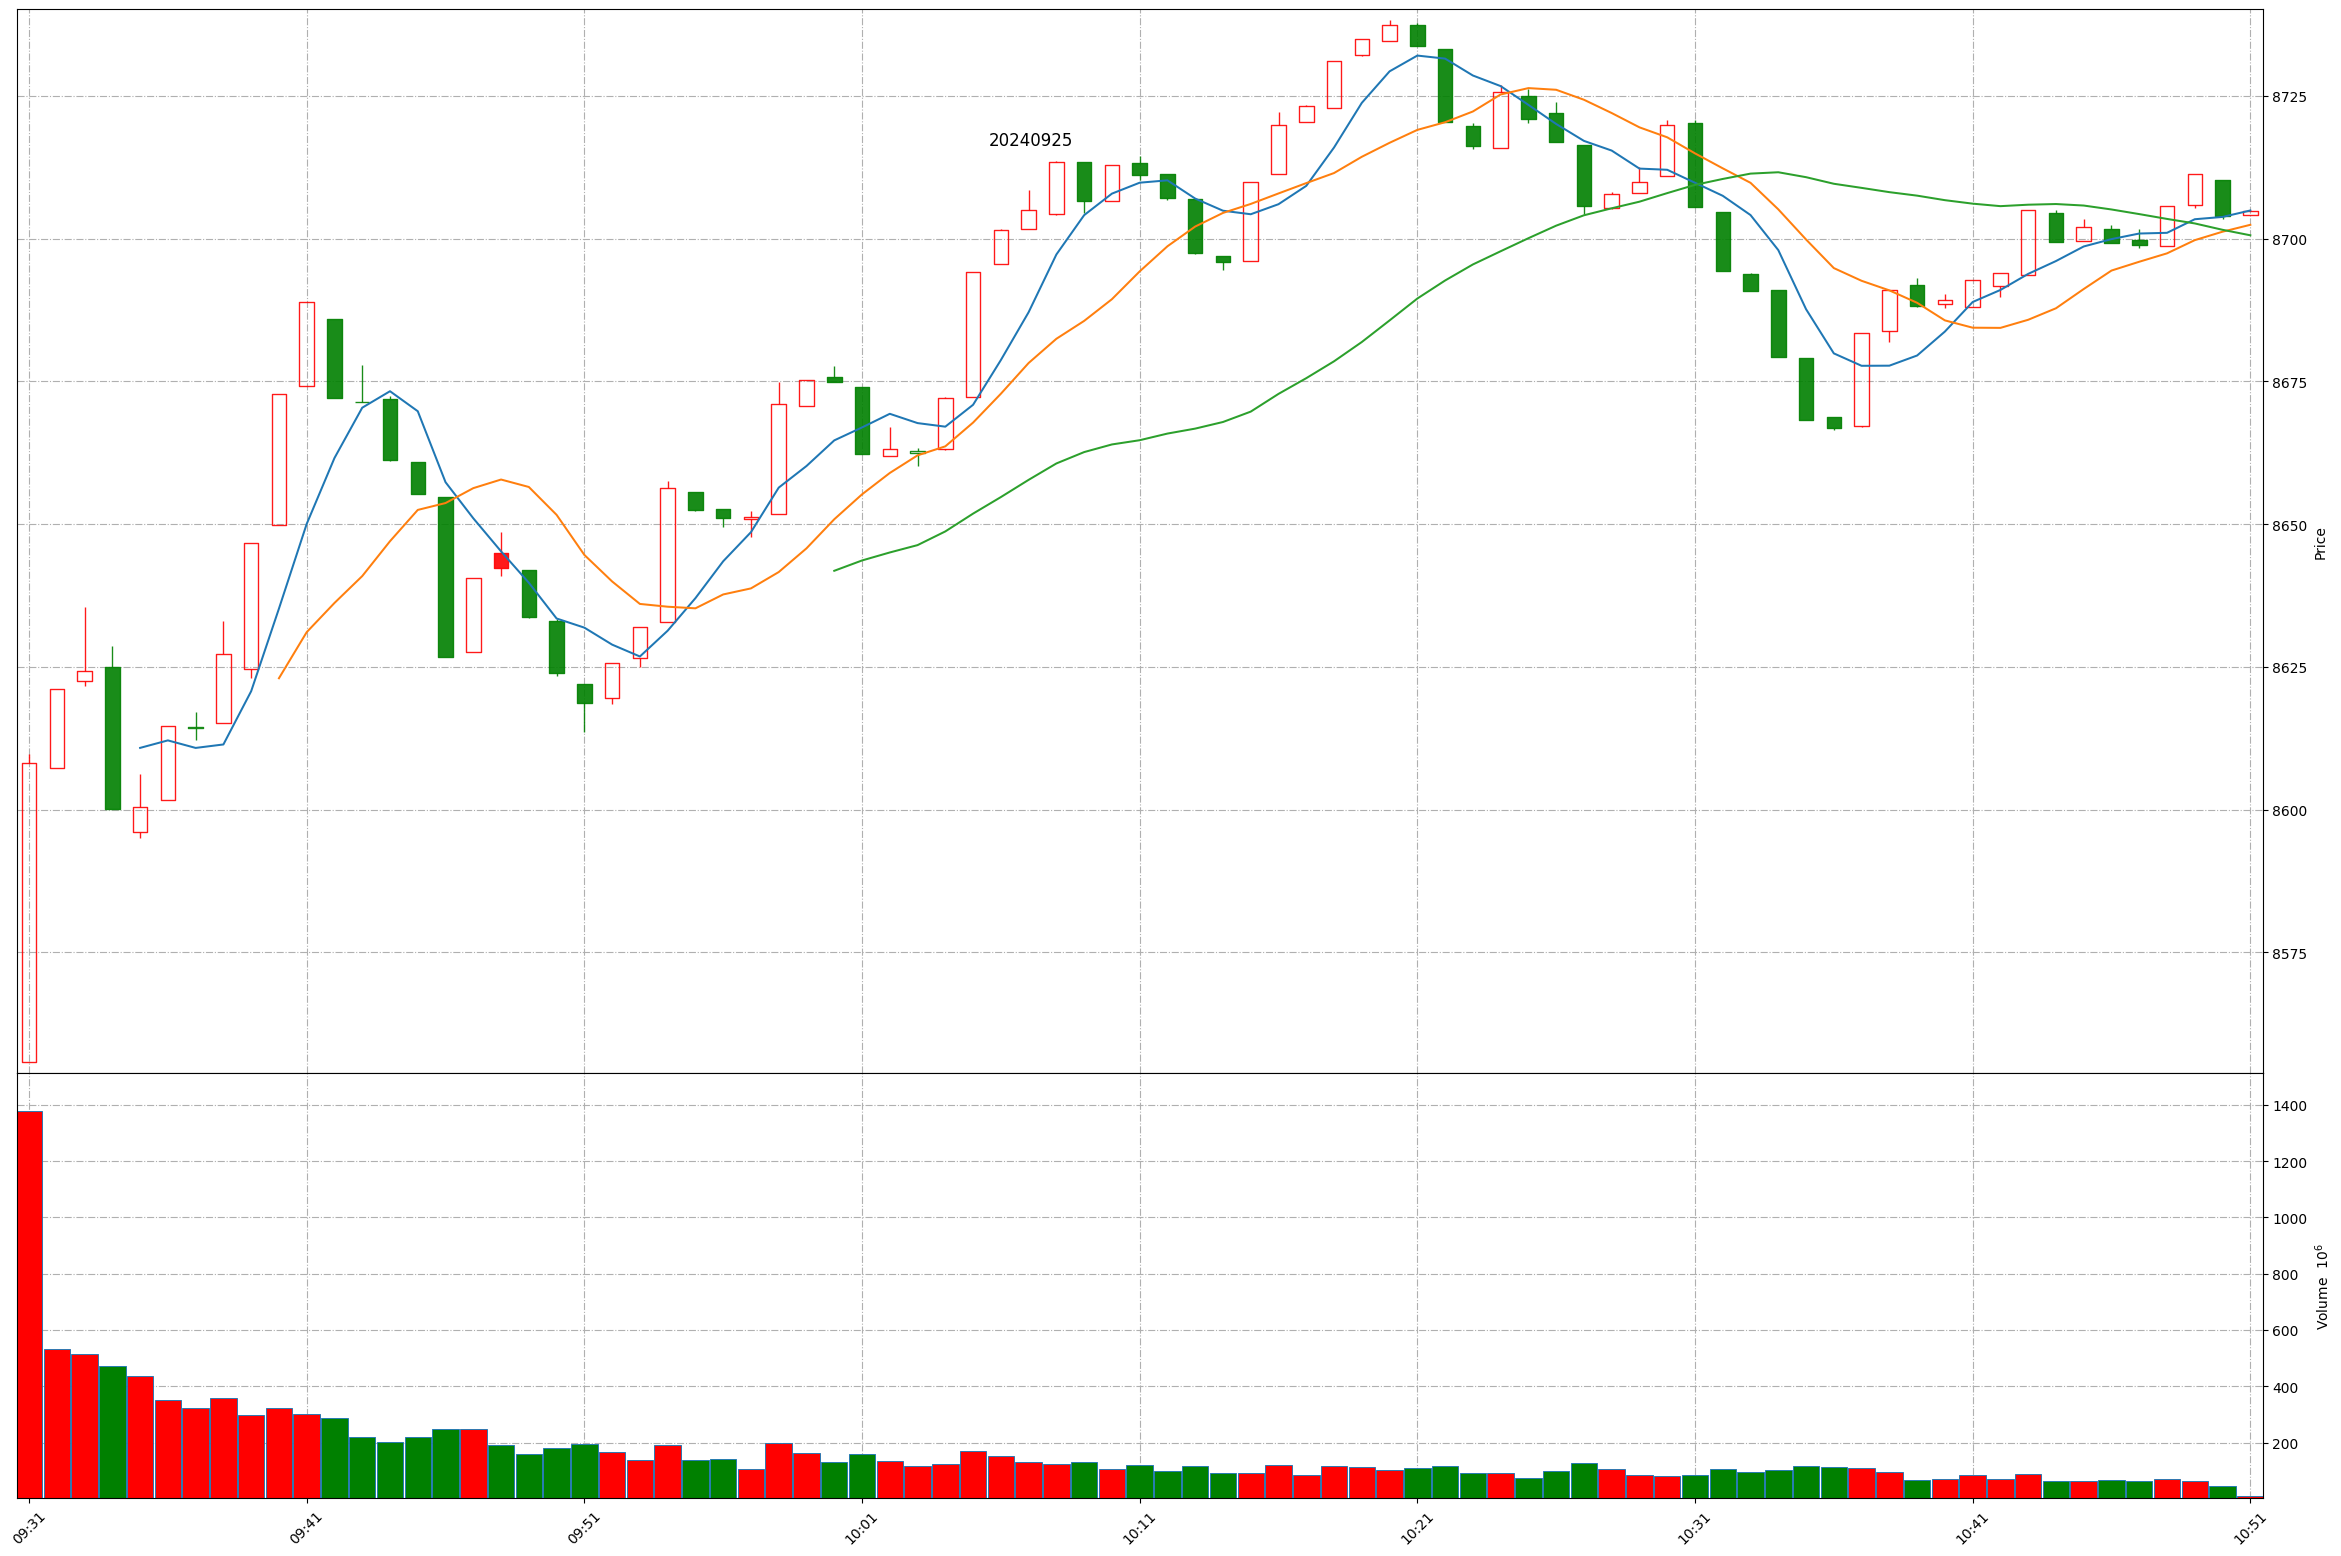
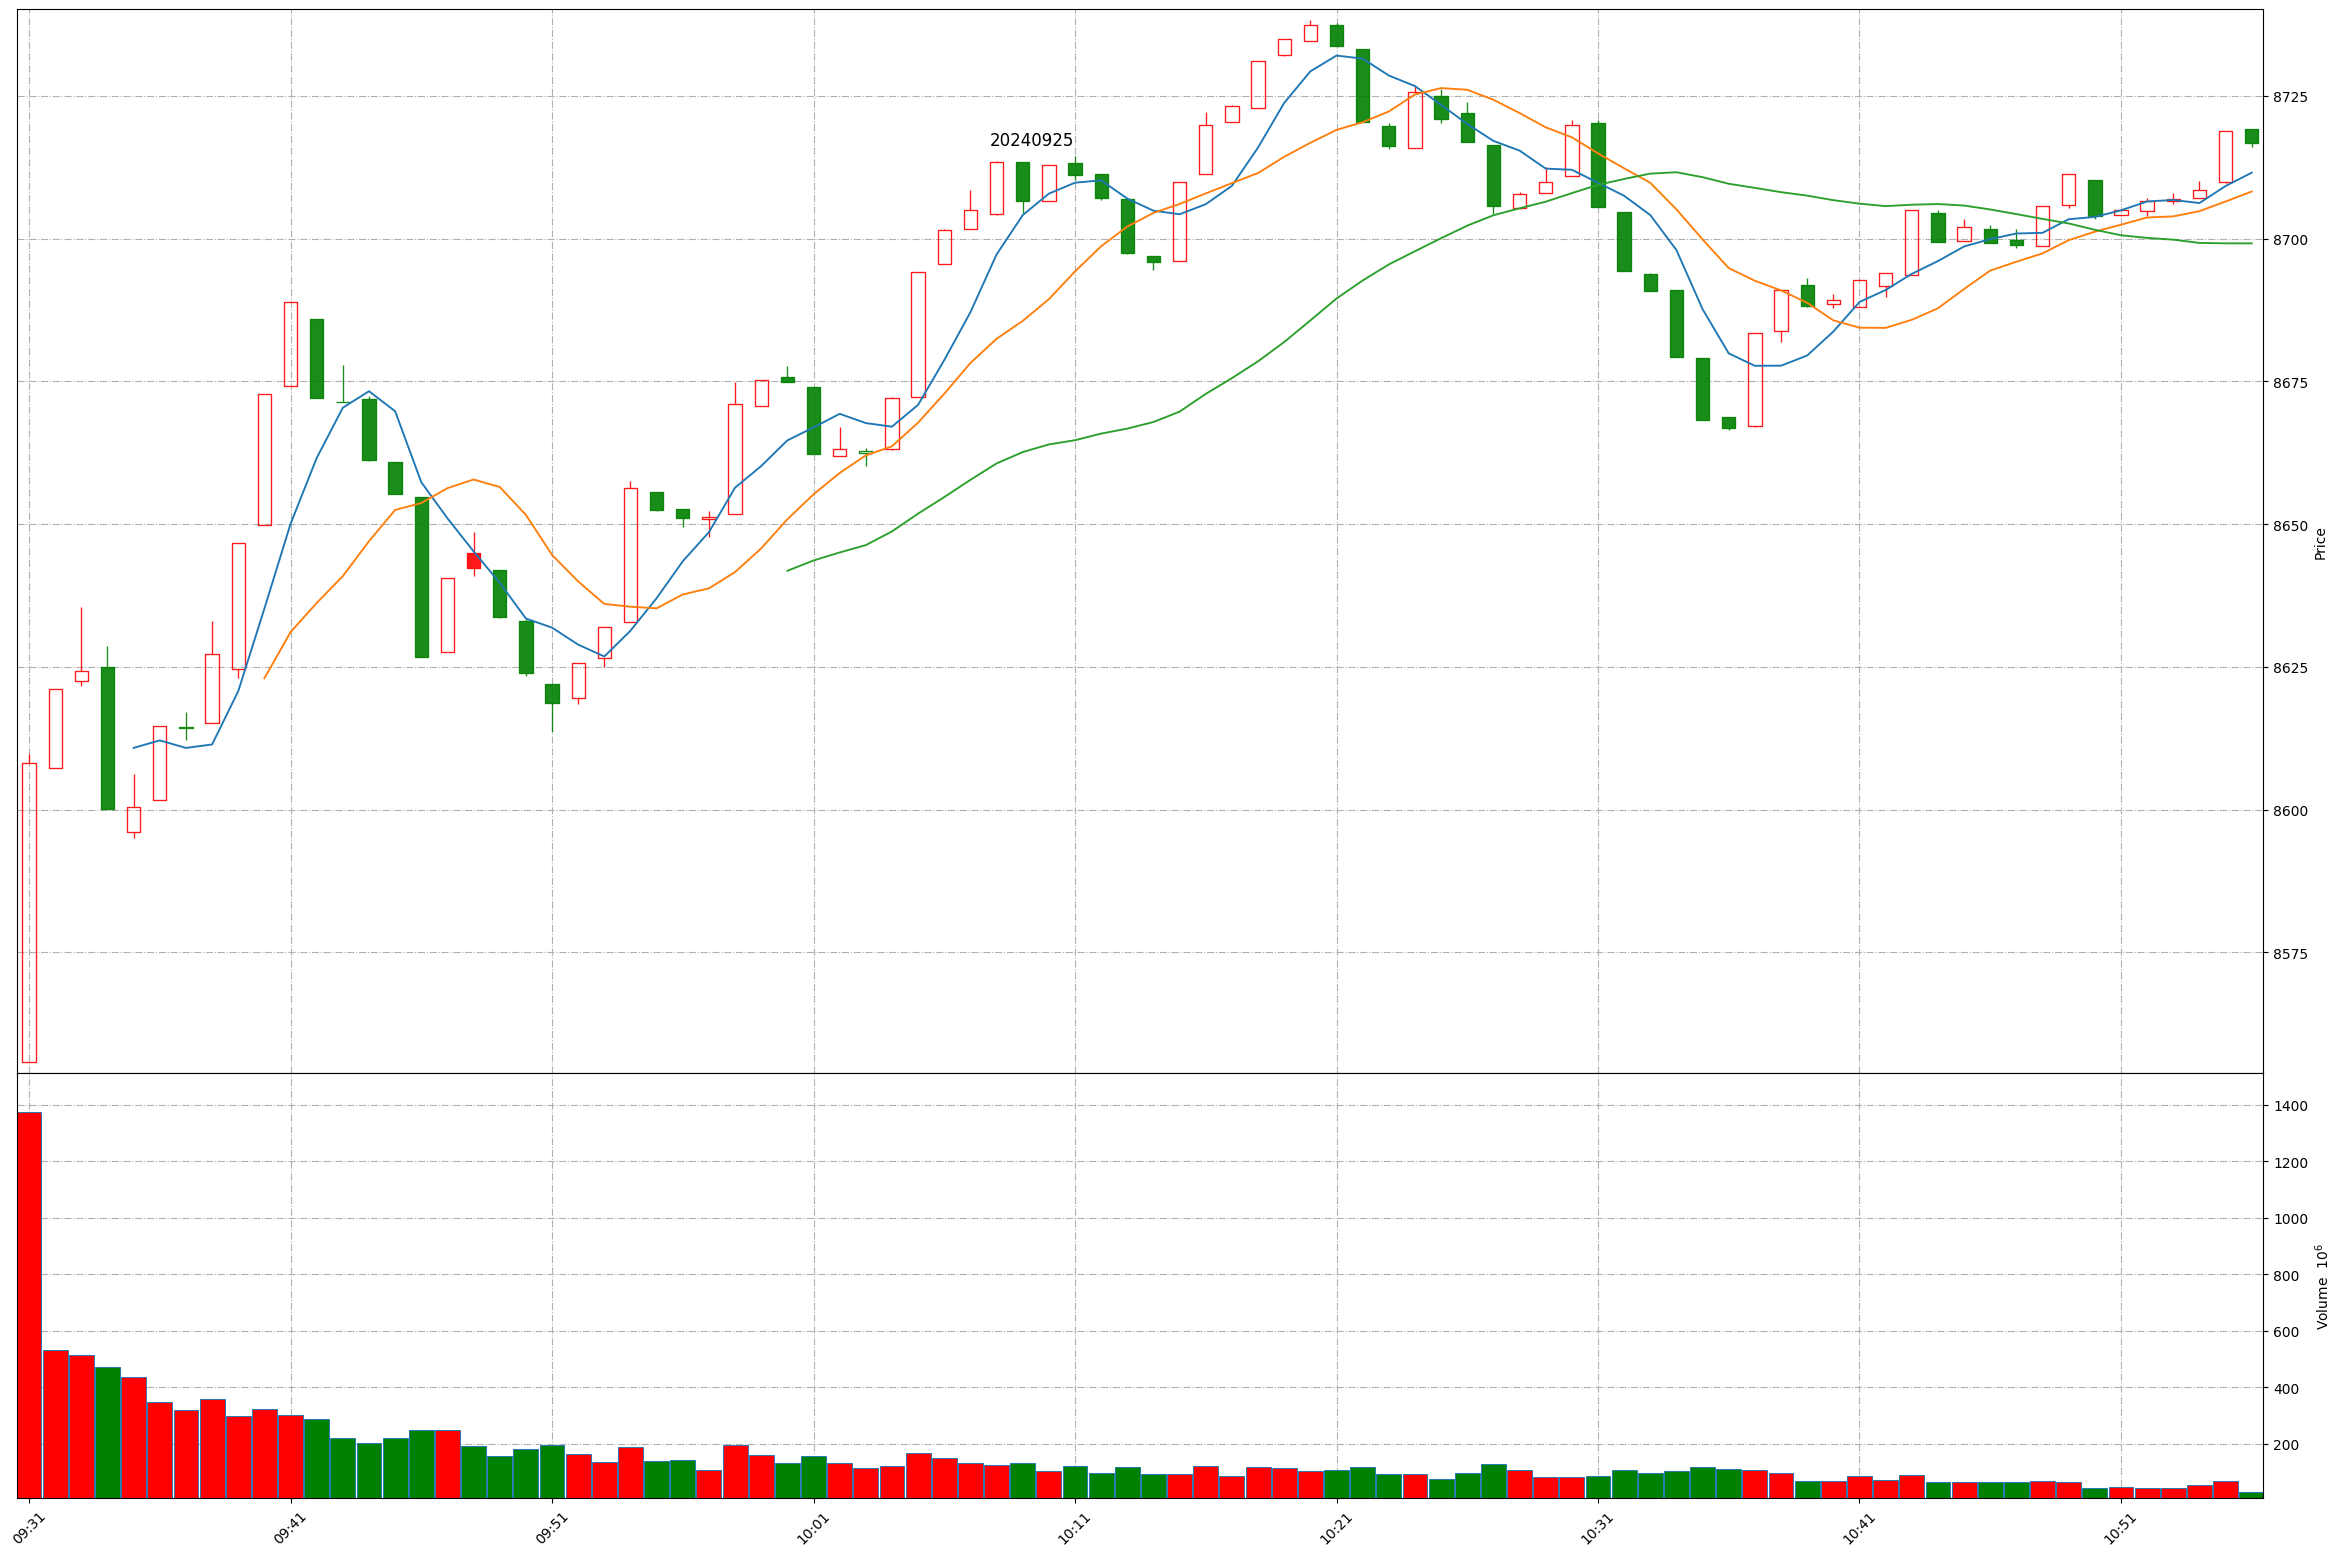
Github action update at 2024-09-25 10:55:48.

diff --git a/README.md b/README.md
@@ -1,11 +1,11 @@
 
 # Daily-A-share-market-quotes 每日 A 股指数（5min 更新）- 20240925
 
-### 上证指数 20240925 10:50
+### 上证指数 20240925 10:55
 ![](./fig/2024/9/20240925-sh000001.png)
 
-### 深证成指 20240925 10:50
+### 深证成指 20240925 10:55
 ![](./fig/2024/9/20240925-sz399001.png)
 
-### 北证50 20240925 10:50
+### 北证50 20240925 10:55
 ![](./fig/2024/9/20240925-bj899050.png)
